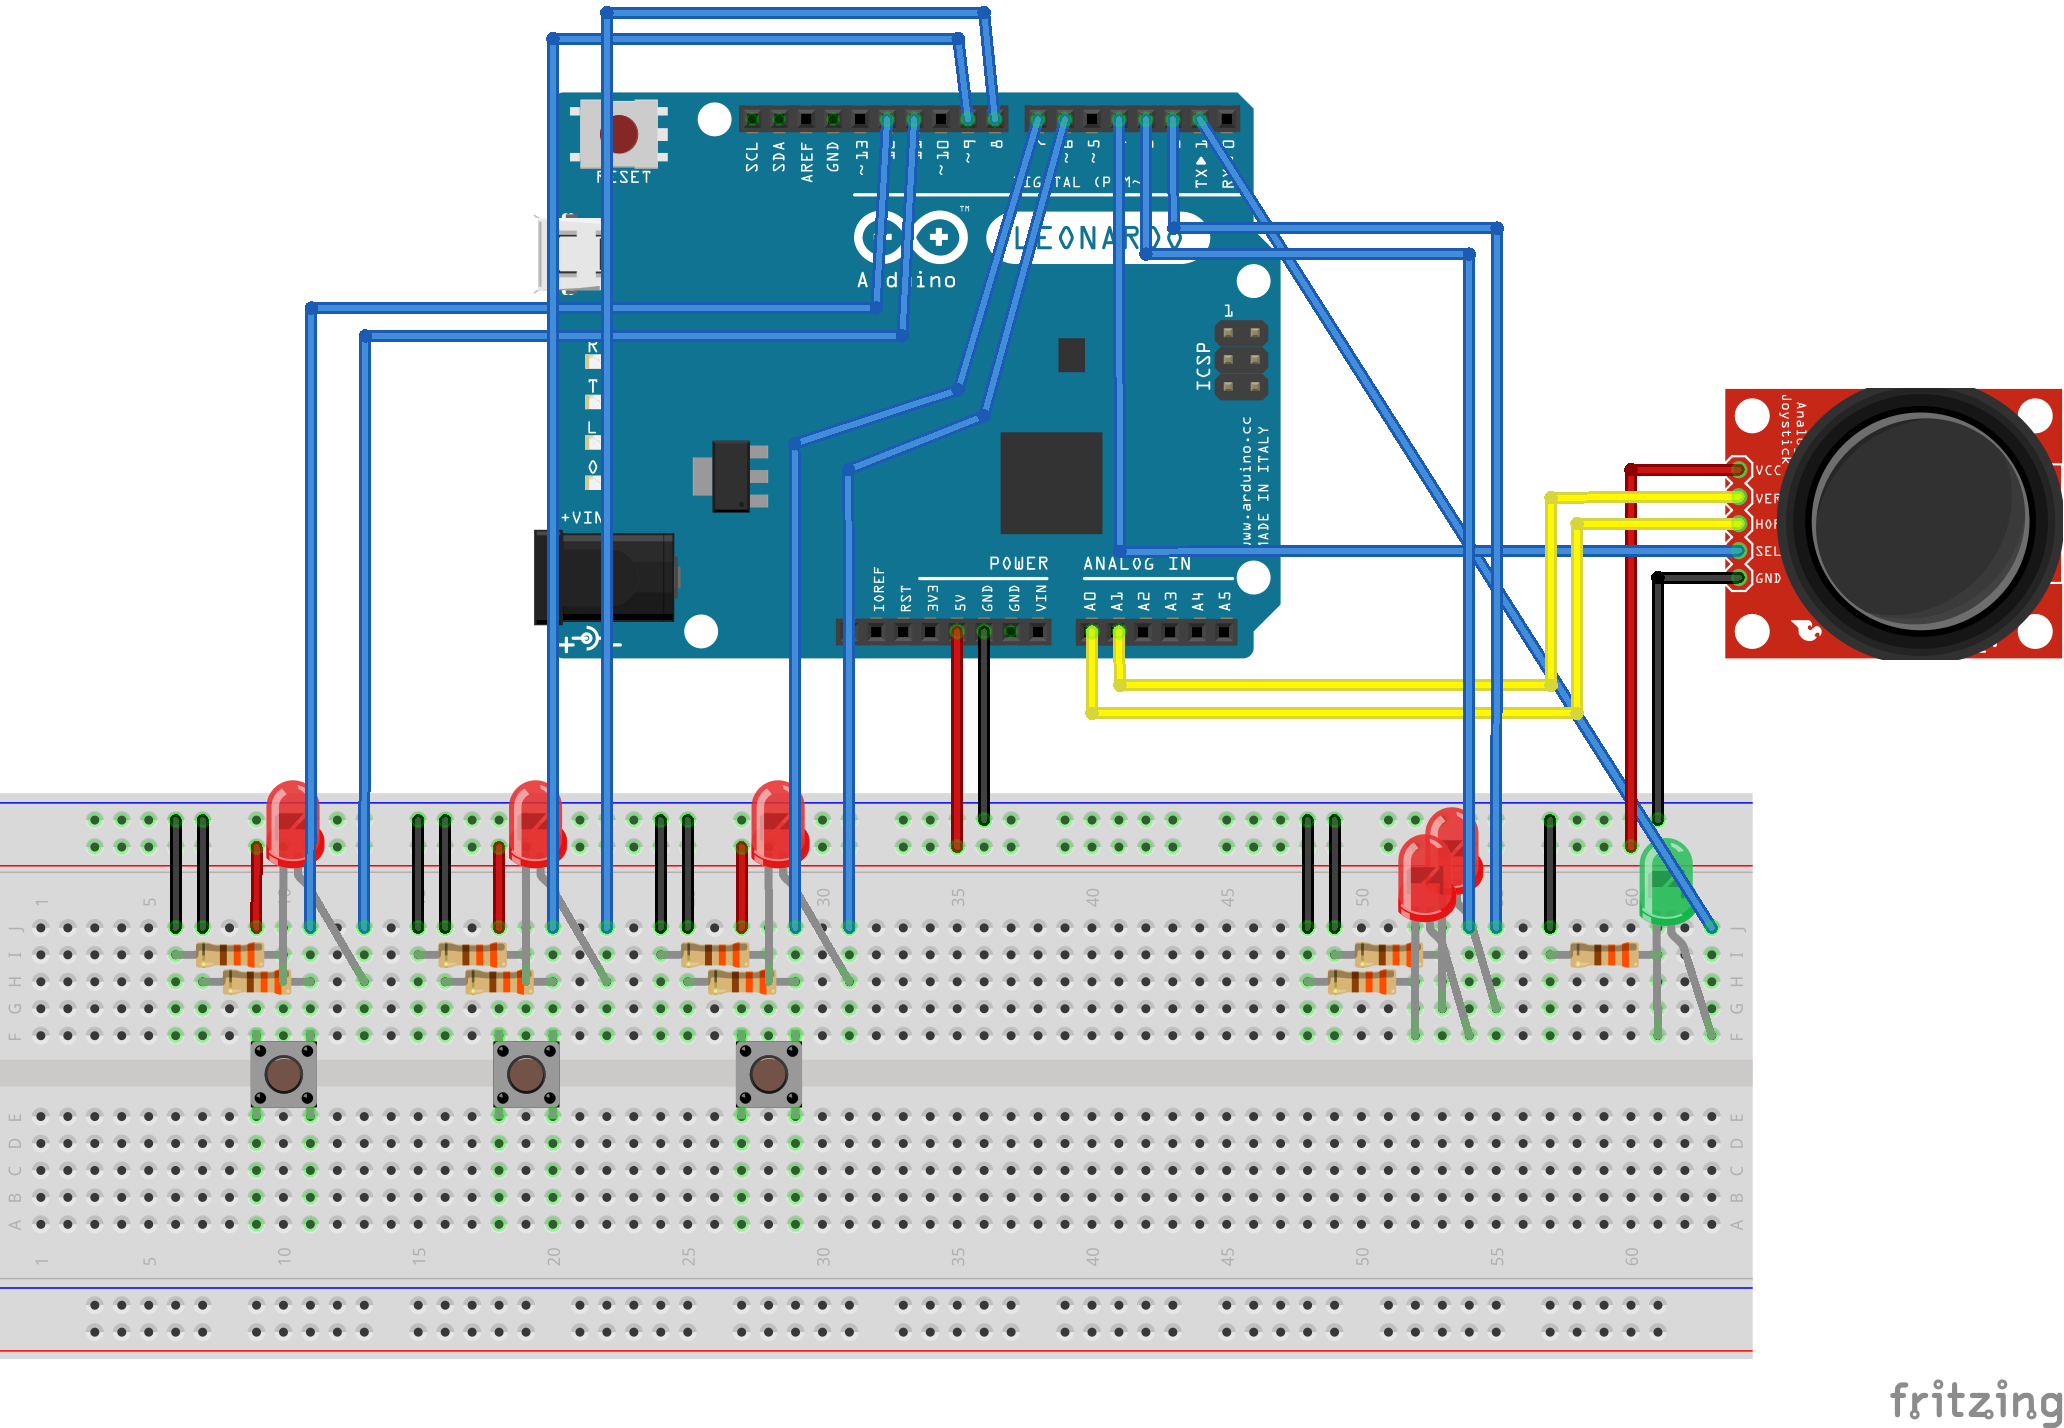
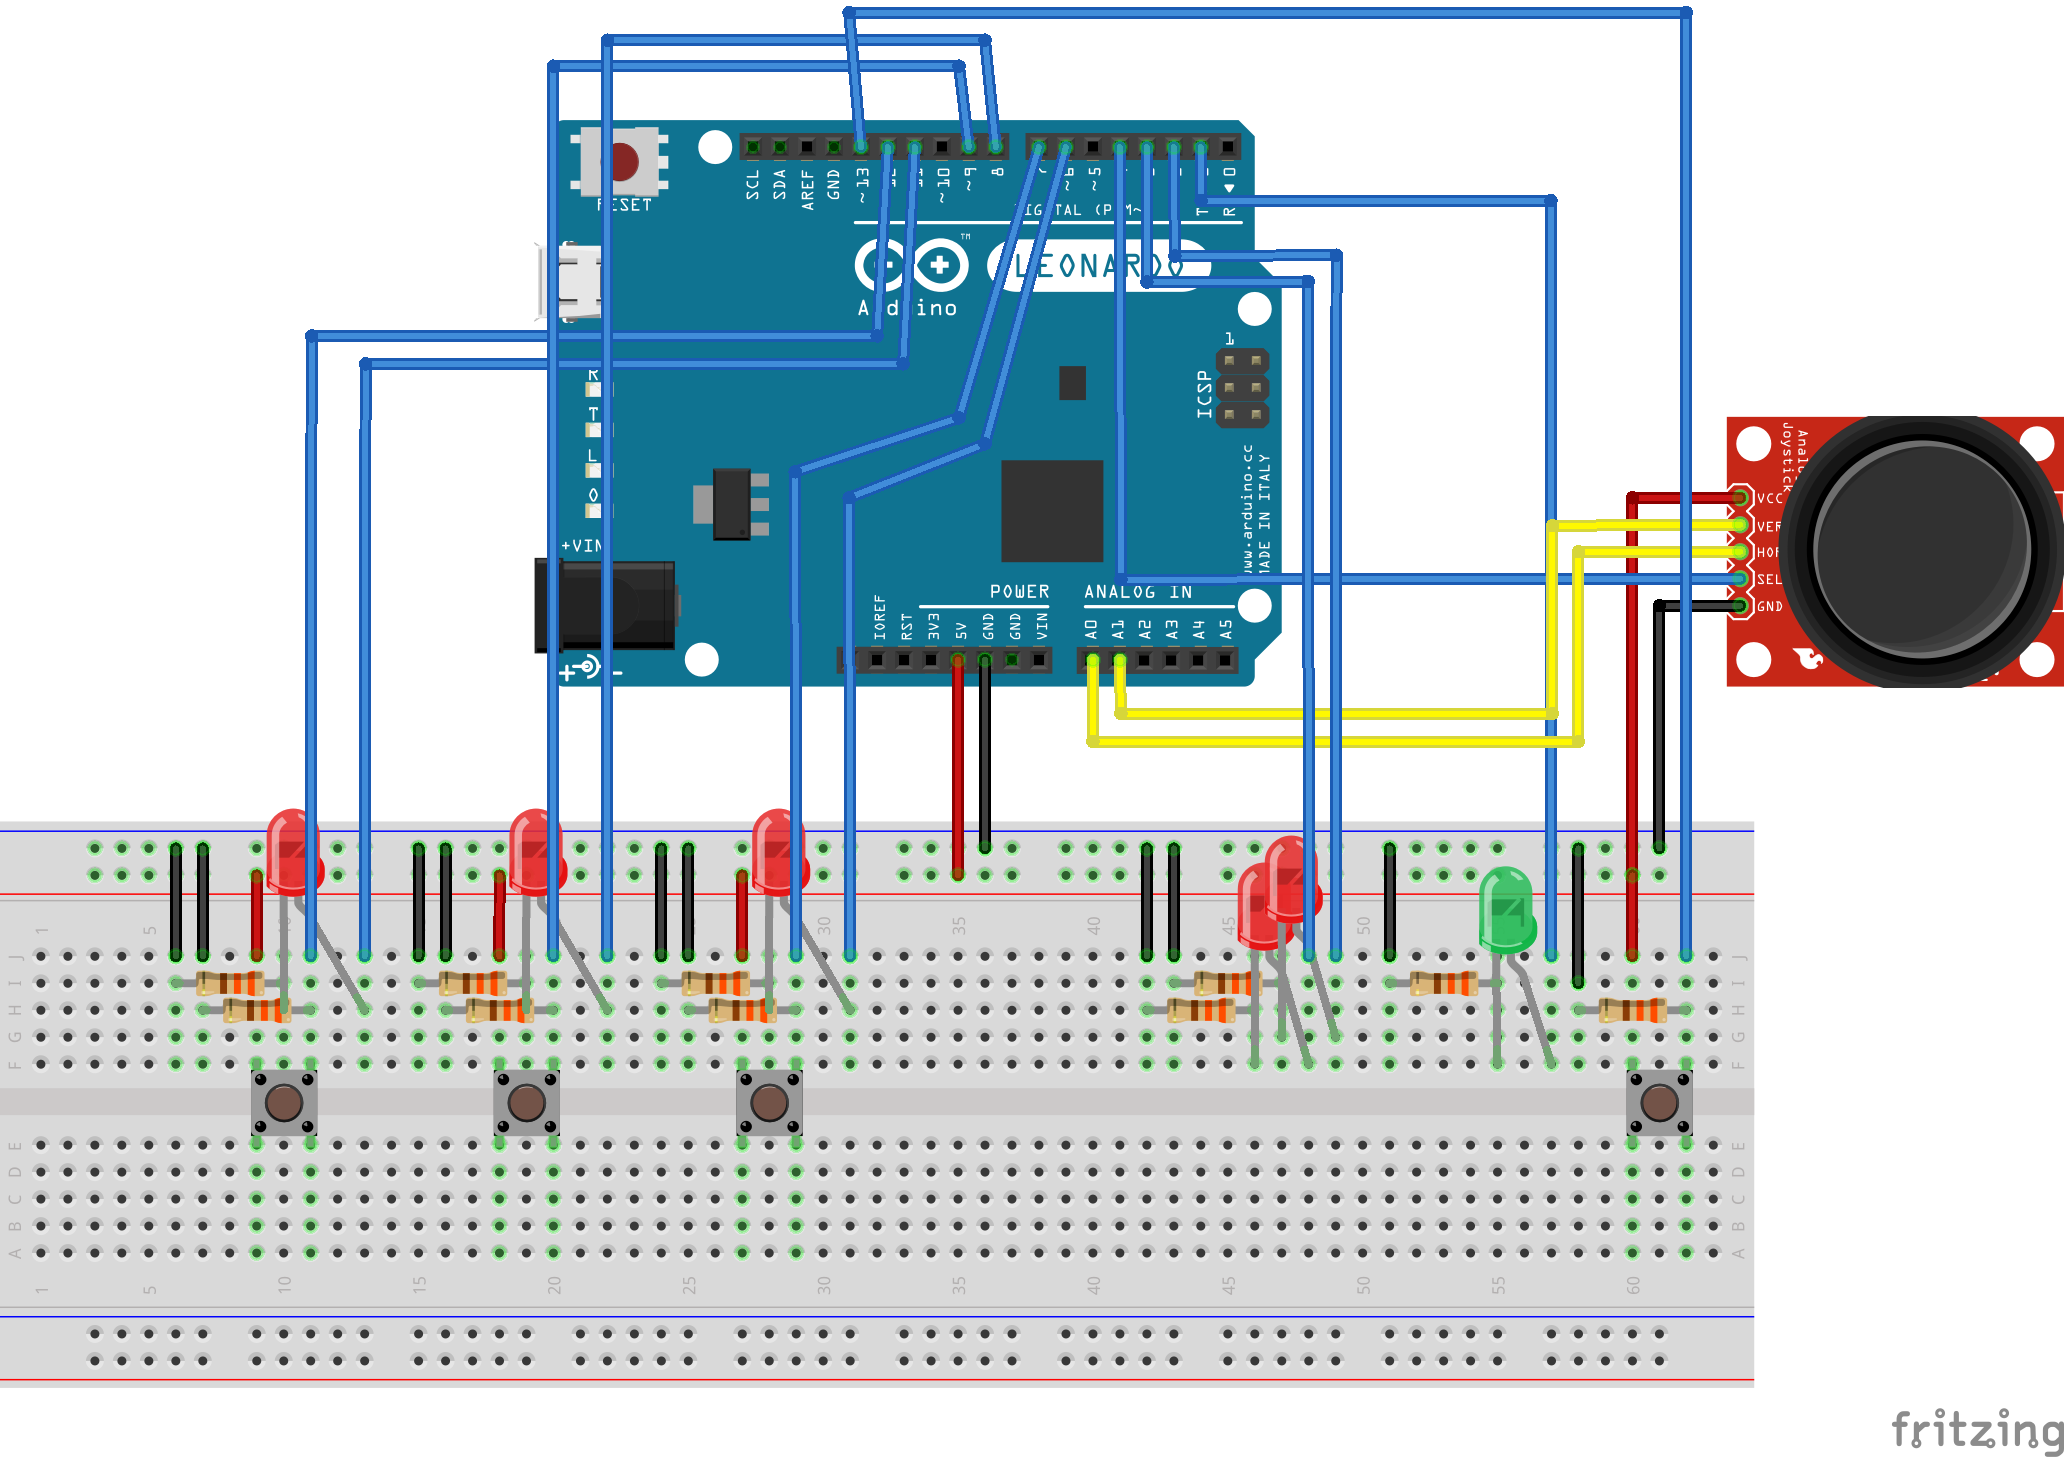
Restart button (#9)
* User can reset the game

* Diagram update (added reset button)

* Added score on game over screen

* Added to do section and short instruction

* Some refactor

* Fix: wrong color was used

Changed region(s): [[0.0, 0.0, 1.0, 0.8627], [0.0, 0.8936, 0.8372, 0.9552], [0.9302, 0.9552, 1.0, 1.0]]

diff --git a/board.js b/board.js
@@ -5,10 +5,11 @@ const five = require('johnny-five'),
 
 const BLINK_TIME = 500;
 
-function main (socket) {
+module.exports = (socket) => {
     let isInitializable = false,
         previousValue = null,
         joystick = null,
+        resetButton,
         putButton = null,
         greenLed = null,
         ledMap = new Map(),
@@ -17,7 +18,7 @@ function main (socket) {
         redLed_1 = null,
         redLed_2 = null;
 
-    socket.on('connection', (socket) => {
+    socket.on('connection', socket => {
         reloadGame();
 
         socket.on('control.pastedItem', () => {
@@ -47,6 +48,7 @@ function main (socket) {
             pins: ['A0', 'A1']
         });
         putButton = new five.Button(4);
+        resetButton = new five.Button(13);
 
         greenLed.blink(BLINK_TIME);
 
@@ -114,6 +116,10 @@ function main (socket) {
         putButton.on('up', () => {
             socket.emit('control.pasteBlock');
         });
+
+        resetButton.on('up', () => {
+            socket.emit('control.restart');
+        });
     });
 
     function clearLeds () {
@@ -145,6 +151,4 @@ function main (socket) {
             greenLed.blink(BLINK_TIME);
         }
     }
-}
-
-module.exports = main;
+};

diff --git a/src/index.js b/src/index.js
@@ -91,7 +91,8 @@ event.on('gui.gameOver', () => {
 
 event.on('gui.appendedShape', earnedPoints => {
     points += earnedPoints;
-    console.log('Score:', points);
+
+    document.querySelector('.js-score').innerText = points.toString();
 });
 
 socket.on('control.ready', () => {
@@ -131,6 +132,10 @@ socket.on('control.selectProposition', number => {
         const shape = availableBlocks.get(number);
         socket.emit('control.selectedColor', shape.color.hex);
     }
+});
+
+socket.on('control.restart', () => {
+    window.location.reload();
 });
 
 event.emit('gui.makeNewProposition', availableBlocks, 1);

diff --git a/src/style/style.scss b/src/style/style.scss
@@ -1,5 +1,9 @@
 * {
-  box-sizing: border-box;;
+  box-sizing: border-box;
+}
+
+body {
+  font-family: Tahoma;
 }
 
 .wrapper,
@@ -48,7 +52,6 @@
 
   &__title {
     color: #333;
-    font-family: Tahoma;
     font-size: 48px;
     text-align: center;
 
@@ -59,9 +62,18 @@
 }
 
 .game-over {
+  &__score {
+    &:before {
+      content: '(';
+    }
+
+    &:after {
+      content: ')';
+    }
+  }
+
   &__title {
     color: #333;
-    font-family: Tahoma;
     font-size: 72px;
     text-align: center;
     margin: 0;

diff --git a/gulpfile.js b/gulpfile.js
@@ -157,7 +157,7 @@ gulp.task('lint', () => {
         .pipe(eslint.format());
 });
 
-gulp.task('test', ['scripts:test', 'lint'], (done) => {
+gulp.task('test', ['scripts:test', 'lint'], done => {
     const server = new karma.Server({
         configFile: __dirname + '/karma.conf.js',
         singleRun: true

diff --git a/src/index.html b/src/index.html
@@ -16,7 +16,7 @@
 </div>
 
 <div class="js-game-over layer layer--hide">
-    <p class="game-over__title">Game Over</p>
+    <p class="game-over__title">Game Over <span class="game-over__score js-score"></span></p>
 </div>
 
 <div class="wrapper">

diff --git a/readme.md b/readme.md
@@ -28,8 +28,8 @@ Please follow step by step:
 
 1. Prepare:
  - 6 [LEDs](https://www.google.pl/search?q=LED), 
- - 9 [resistor](https://www.google.pl/search?q=resistor+330+ohm) (330 Ω), 
- - 3 buttons (prefered ["Tactical Switch"](https://www.google.pl/search?q=Tactical+Switch)), 
+ - 10 [resistor](https://www.google.pl/search?q=resistor+330+ohm) (330 Ω), 
+ - 4 buttons (prefered ["Tactical Switch"](https://www.google.pl/search?q=Tactical+Switch)), 
  - [Thumb Joystick](https://www.google.pl/search?q=thumb+joystick)
 2. Analyze the [**Circuit diagram**](#circuit-diagram)
 3. Based on [**Breadboard preview**](#breadboard-preview) - build *Game Controller*
@@ -53,9 +53,34 @@ Please follow [the instruction](https://github.com/rwaldron/johnny-five/wiki/Get
 
 ![Circuit diagram](docs/Arduino1010_schem.png)
 
+## How to play?
+
+Based on breadboard above:
+
+* Buttons (from left to right) mean which shape should be active,
+* A LED above the button mean which shape is active,
+* If you press the same button two times - shape will be indeterminate,
+* After paste a shape, a LED will switch off,
+* If you cannot move anywhere - two LEDs will be blink alternately, otherwise - a green LED will be blinking
+* After chose a shape - you can chose a place to paste (use the joystick)
+* If you want to paste the shape - press down the joystick
+* If you want to restart game - press button at right down
+
+## To do
+
+I'm open for any improvements of the game. If you have any idea, but you 
+don't want or you cannot how do this, please leave me an issue.
+
+My road map contains following points:
+
+- [ ] Add display [LCD HD44780](https://www.google.pl/search?q=LCD+HD44780),
+- [ ] Easy way to add custom shapes,
+- [ ] Try to optimize used pins,
+- [ ] In the future: build a device (which Computer won't be needed).
+
 ## Development
 
-I'm open for any improvements of the game. If you want to do anything with the game, please follow rules below:
+If you want to do anything with the game, please follow rules below:
 
 * Each change breadboard or circuit diagram should be updated (use [Fritzing](http://fritzing.org/home/)),
 * Each change of code should be tested (unit tests),
